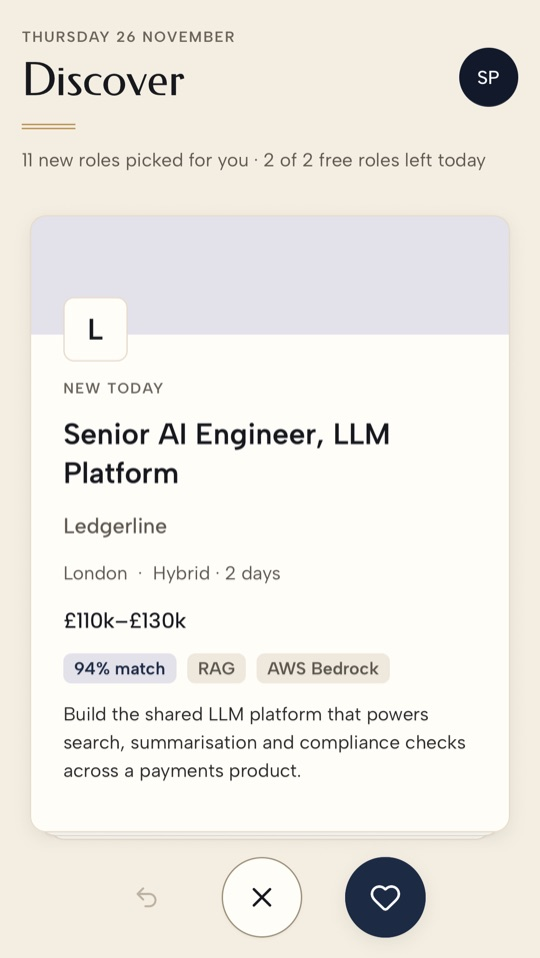
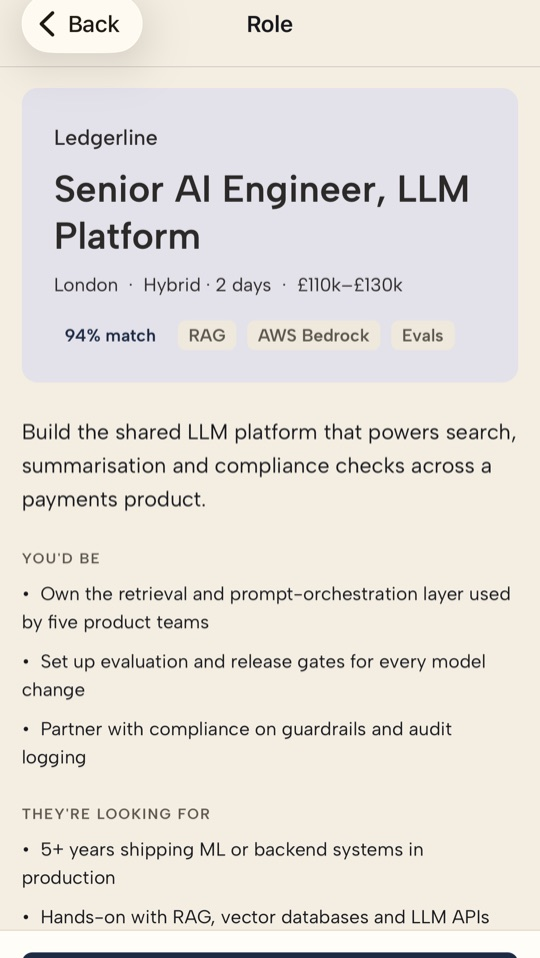
JTBF page: How it works as five steps that alternate JTBF and you
JTBF finds the openings, you pick, JTBF tailors your CV, you apply yourself, JTBF helps you prepare. Your steps are brass so the decisions stand out, and the head says JTBF never applies for you (Morris, 2026-11-26). Five real app screens on sample data, one per step.

diff --git a/jtbf/zh-hant/index.html b/jtbf/zh-hant/index.html
@@ -91,14 +91,15 @@
     <div class="wrap">
       <div class="section-head">
         <p class="eyebrow">怎麼用</p>
-        <h2 id="how-title">找工作，把瑣事都省掉。</h2>
-        <p>不用再開四十個分頁。只看適合你的新職位，而且很快就能看完。</p>
+        <h2 id="how-title">跑腿交給 JTBF，決定權在你。</h2>
+        <p>找職位、調整履歷、準備面試，JTBF 幫你做；選哪份工作、什麼時候申請，由你決定。JTBF 從不替你申請。</p>
       </div>
       <ol class="steps">
-        <li class="step"><span class="step-ico" aria-hidden="true"><svg viewBox="0 0 24 24"><path d="M4 21v-7M4 10V3M12 21v-9M12 8V3M20 21v-5M20 12V3M1 14h6M9 8h6M17 16h6"/></svg></span><h3><span>第 1 步</span>說說你想要什麼</h3><p>選好職位、級別和想工作的地方。倫敦、曼徹斯特，或是你家沙發都行。</p><figure class="shot"><img src="../shots/step-1.jpg" alt="JTBF 註冊流程：選擇想找的職位，已選 Software engineering、Risk 和 Quant &amp; research（App 介面為英文）" width="540" height="958" loading="lazy" decoding="async"></figure></li>
-        <li class="step"><span class="step-ico" aria-hidden="true"><svg viewBox="0 0 24 24"><rect x="8" y="3" width="12" height="17" rx="2"/><path d="M4 6v13a2 2 0 0 0 2 2h9"/></svg></span><h3><span>第 2 步</span>滑一滑，看看有什麼新的</h3><p>每天送上新的配對。右滑加入候選，左滑跳過，就這麼簡單。</p><figure class="shot"><img src="../shots/step-2.jpg" alt="探索頁：倫敦一個資深 AI 工程師職位，薪酬 £110k–£130k，配對度 94%，下方是跳過和加入候選的按鈕" width="540" height="958" loading="lazy" decoding="async"></figure></li>
-        <li class="step"><span class="step-ico" aria-hidden="true"><svg viewBox="0 0 24 24"><path d="M14 3H6a2 2 0 0 0-2 2v14a2 2 0 0 0 2 2h12a2 2 0 0 0 2-2V9z"/><path d="M14 3v6h6M8 13h8M8 17h5"/></svg></span><h3><span>第 3 步</span>調整履歷，再去申請</h3><p>AI 會按職位幫你調整履歷，然後你到僱主自己的頁面，照他們的方式申請。JTBF 從不替你申請。</p><figure class="shot"><img src="../shots/step-3.jpg" alt="為某個職位調整過的履歷，改寫過的句子以底色標示" width="540" height="958" loading="lazy" decoding="async"></figure></li>
-        <li class="step"><span class="step-ico" aria-hidden="true"><svg viewBox="0 0 24 24"><path d="M3 6l2 2 3-3M3 13l2 2 3-3M12 6h9M12 13h9M12 20h9M4 20h.01"/></svg></span><h3><span>第 4 步</span>進度一目了然</h3><p>每份申請、每個階段都在同一個地方，一路追到錄取通知。</p><figure class="shot"><img src="../shots/step-4.jpg" alt="追蹤頁：四個職位，一個已加入候選、兩個已申請、一個在面試中" width="540" height="958" loading="lazy" decoding="async"></figure></li>
+        <li class="step is-jtbf"><span class="step-ico" aria-hidden="true"><svg viewBox="0 0 24 24"><circle cx="11" cy="11" r="7"/><path d="M21 21l-4.35-4.35"/></svg></span><h3><span>1 &middot; JTBF</span>幫你找到合適的職位</h3><p>告訴它你想找什麼。JTBF 每天查看約 260 家銀行、基金和金融科技公司，挑出適合你的新職位。</p><figure class="shot"><img src="../shots/step-1.jpg" alt="探索頁：為你挑選的新職位，其中一個是倫敦的資深 AI 工程師，薪酬 £110k–£130k，配對度 94%（App 介面為英文）" width="540" height="958" loading="lazy" decoding="async"></figure></li>
+        <li class="step is-you"><span class="step-ico" aria-hidden="true"><svg viewBox="0 0 24 24"><rect x="8" y="3" width="12" height="17" rx="2"/><path d="M4 6v13a2 2 0 0 0 2 2h9"/></svg></span><h3><span>2 &middot; 你</span>挑你感興趣的</h3><p>看看職位內容、薪酬和面試流程。右滑加入候選，左滑跳過。值不值得一試，由你決定。</p><figure class="shot"><img src="../shots/step-2.jpg" alt="職位詳情：公司、薪酬、所需技能、工作內容和招聘要求" width="540" height="958" loading="lazy" decoding="async"></figure></li>
+        <li class="step is-jtbf"><span class="step-ico" aria-hidden="true"><svg viewBox="0 0 24 24"><path d="M14 3H6a2 2 0 0 0-2 2v14a2 2 0 0 0 2 2h12a2 2 0 0 0 2-2V9z"/><path d="M14 3v6h6M8 13h8M8 17h5"/></svg></span><h3><span>3 &middot; JTBF</span>按職位調整履歷</h3><p>AI 按職位重新排列和改寫你自己的履歷。不會無中生有，每一處改動你都看得到。</p><figure class="shot"><img src="../shots/step-3.jpg" alt="為某個職位調整過的履歷，改寫過的句子以底色標示" width="540" height="958" loading="lazy" decoding="async"></figure></li>
+        <li class="step is-you"><span class="step-ico" aria-hidden="true"><svg viewBox="0 0 24 24"><path d="M15 3h6v6M10 14L21 3M18 13v6a2 2 0 0 1-2 2H5a2 2 0 0 1-2-2V8a2 2 0 0 1 2-2h6"/></svg></span><h3><span>4 &middot; 你</span>自己去申請</h3><p>到僱主自己的網站，照他們的方式申請。JTBF 從不替你申請。</p><figure class="shot"><img src="../shots/step-4.jpg" alt="下一步：帶著調整好的履歷到僱主的招聘網站申請，申請完再告訴 JTBF" width="540" height="958" loading="lazy" decoding="async"></figure></li>
+        <li class="step is-jtbf"><span class="step-ico" aria-hidden="true"><svg viewBox="0 0 24 24"><path d="M21 15a2 2 0 0 1-2 2H7l-4 4V5a2 2 0 0 1 2-2h14a2 2 0 0 1 2 2z"/><path d="M8 9h8M8 13h5"/></svg></span><h3><span>5 &middot; JTBF</span>幫你準備面試</h3><p>快要面試了？JTBF 幫你準備，每份申請和進度也都在同一個地方。</p><figure class="shot"><img src="../shots/step-5.jpg" alt="追蹤頁：四個職位，一個已加入候選、兩個已申請、一個在面試中" width="540" height="958" loading="lazy" decoding="async"></figure></li>
       </ol>
       <p class="shots-note">截圖來自 JTBF App，用的是虛構公司的示範職位。</p>
       <div class="facts">

diff --git a/jtbf/index.html b/jtbf/index.html
@@ -91,14 +91,15 @@
     <div class="wrap">
       <div class="section-head">
         <p class="eyebrow">How it works</p>
-        <h2 id="how-title">Your job hunt, minus the busywork.</h2>
-        <p>No more forty open tabs. Just the new roles that fit, and a quick way through them.</p>
+        <h2 id="how-title">JTBF does the legwork. You make every call.</h2>
+        <p>It finds the roles, tailors your CV and helps you prepare. You choose and you apply. JTBF never applies for a job for you.</p>
       </div>
       <ol class="steps">
-        <li class="step"><span class="step-ico" aria-hidden="true"><svg viewBox="0 0 24 24"><path d="M4 21v-7M4 10V3M12 21v-9M12 8V3M20 21v-5M20 12V3M1 14h6M9 8h6M17 16h6"/></svg></span><h3><span>Step 1</span>Tell it what you&rsquo;re after</h3><p>Pick your roles, your level and where you&rsquo;d like to work. London, Manchester, or your own sofa.</p><figure class="shot"><img src="shots/step-1.jpg" alt="JTBF onboarding: picking the roles you’re after, with Software engineering, Risk and Quant & research chosen" width="540" height="958" loading="lazy" decoding="async"></figure></li>
-        <li class="step"><span class="step-ico" aria-hidden="true"><svg viewBox="0 0 24 24"><rect x="8" y="3" width="12" height="17" rx="2"/><path d="M4 6v13a2 2 0 0 0 2 2h9"/></svg></span><h3><span>Step 2</span>Swipe through what&rsquo;s new</h3><p>Fresh matches land every day. Swipe right to shortlist, left to pass. That&rsquo;s it.</p><figure class="shot"><img src="shots/step-2.jpg" alt="The Discover feed: a role card for a Senior AI Engineer in London, £110k–£130k, 94% match, with pass and shortlist buttons" width="540" height="958" loading="lazy" decoding="async"></figure></li>
-        <li class="step"><span class="step-ico" aria-hidden="true"><svg viewBox="0 0 24 24"><path d="M14 3H6a2 2 0 0 0-2 2v14a2 2 0 0 0 2 2h12a2 2 0 0 0 2-2V9z"/><path d="M14 3v6h6M8 13h8M8 17h5"/></svg></span><h3><span>Step 3</span>Tailor your CV, then apply</h3><p>AI tailors your CV to the role. Then you apply on the employer&rsquo;s own page, the way they ask. JTBF never applies for you.</p><figure class="shot"><img src="shots/step-3.jpg" alt="A CV tailored for one role, with the reworded lines highlighted" width="540" height="958" loading="lazy" decoding="async"></figure></li>
-        <li class="step"><span class="step-ico" aria-hidden="true"><svg viewBox="0 0 24 24"><path d="M3 6l2 2 3-3M3 13l2 2 3-3M12 6h9M12 13h9M12 20h9M4 20h.01"/></svg></span><h3><span>Step 4</span>Keep track</h3><p>Every application and its stage in one place, all the way to the offer.</p><figure class="shot"><img src="shots/step-4.jpg" alt="The Track tab: four roles, one shortlisted, two applied for and one at interview" width="540" height="958" loading="lazy" decoding="async"></figure></li>
+        <li class="step is-jtbf"><span class="step-ico" aria-hidden="true"><svg viewBox="0 0 24 24"><circle cx="11" cy="11" r="7"/><path d="M21 21l-4.35-4.35"/></svg></span><h3><span>1 &middot; JTBF</span>Finds the right openings</h3><p>Tell it what you&rsquo;re after. Every day JTBF checks about 260 banks, funds and fintechs and picks out the new roles that fit.</p><figure class="shot"><img src="shots/step-1.jpg" alt="The Discover feed: new roles picked for you, with a Senior AI Engineer role in London, £110k–£130k, 94% match" width="540" height="958" loading="lazy" decoding="async"></figure></li>
+        <li class="step is-you"><span class="step-ico" aria-hidden="true"><svg viewBox="0 0 24 24"><rect x="8" y="3" width="12" height="17" rx="2"/><path d="M4 6v13a2 2 0 0 0 2 2h9"/></svg></span><h3><span>2 &middot; You</span>Pick what interests you</h3><p>Read the role, the pay and the interview process. Swipe right to shortlist, left to pass. Only you decide what&rsquo;s worth a go.</p><figure class="shot"><img src="shots/step-2.jpg" alt="A role in full: the company, pay, skills, what you’d do and what they’re looking for" width="540" height="958" loading="lazy" decoding="async"></figure></li>
+        <li class="step is-jtbf"><span class="step-ico" aria-hidden="true"><svg viewBox="0 0 24 24"><path d="M14 3H6a2 2 0 0 0-2 2v14a2 2 0 0 0 2 2h12a2 2 0 0 0 2-2V9z"/><path d="M14 3v6h6M8 13h8M8 17h5"/></svg></span><h3><span>3 &middot; JTBF</span>Tailors your CV</h3><p>AI reorders and rewords your own CV for the role. Nothing is invented, and you see every change.</p><figure class="shot"><img src="shots/step-3.jpg" alt="A CV tailored for one role, with the reworded lines highlighted" width="540" height="958" loading="lazy" decoding="async"></figure></li>
+        <li class="step is-you"><span class="step-ico" aria-hidden="true"><svg viewBox="0 0 24 24"><path d="M15 3h6v6M10 14L21 3M18 13v6a2 2 0 0 1-2 2H5a2 2 0 0 1-2-2V8a2 2 0 0 1 2-2h6"/></svg></span><h3><span>4 &middot; You</span>Apply yourself</h3><p>You apply on the employer&rsquo;s own site, the way they ask. JTBF never applies for you.</p><figure class="shot"><img src="shots/step-4.jpg" alt="The next step: apply on the employer’s careers site with your tailored CV, then tell JTBF you’ve applied" width="540" height="958" loading="lazy" decoding="async"></figure></li>
+        <li class="step is-jtbf"><span class="step-ico" aria-hidden="true"><svg viewBox="0 0 24 24"><path d="M21 15a2 2 0 0 1-2 2H7l-4 4V5a2 2 0 0 1 2-2h14a2 2 0 0 1 2 2z"/><path d="M8 9h8M8 13h5"/></svg></span><h3><span>5 &middot; JTBF</span>Helps you prepare</h3><p>Interview coming up? JTBF helps you get ready, and keeps every application and its stage in one place.</p><figure class="shot"><img src="shots/step-5.jpg" alt="The Track tab: four roles, one shortlisted, two applied for and one at interview" width="540" height="958" loading="lazy" decoding="async"></figure></li>
       </ol>
       <p class="shots-note">Screens from the JTBF app, on sample roles from made-up companies.</p>
       <div class="facts">

diff --git a/jtbf/jtbf.css b/jtbf/jtbf.css
@@ -132,7 +132,7 @@ a { color: inherit; }
 .step h3 span { display: block; font-size: 11px; line-height: 15px; letter-spacing: 1px; font-weight: 600; text-transform: uppercase; color: var(--steel); }
 .step p { margin: 0; color: var(--slate); text-wrap: pretty; }
 @media (min-width: 900px) {
-  .steps { grid-template-columns: repeat(4, minmax(0, 1fr)); gap: 32px; }
+  .steps { grid-template-columns: repeat(5, minmax(0, 1fr)); gap: 28px; }
   .step { grid-template-columns: minmax(0, 1fr); gap: 16px; padding: 0; }
   .step-ico { grid-row: auto; }
   .step::before { left: 64px; right: -24px; top: 23px; bottom: auto; width: auto; height: 2px; }
@@ -234,3 +234,7 @@ a { color: inherit; }
   .motif .glint { display: none; }
   .motif .rays path { animation: none; }
 }
+
+/* how it works alternates JTBF's steps and yours: yours are brass, so the decisions stand out */
+.step.is-you .step-ico { background: var(--brass); color: var(--brand-navy); }
+.step.is-you h3 span { color: var(--brass-deep); }
